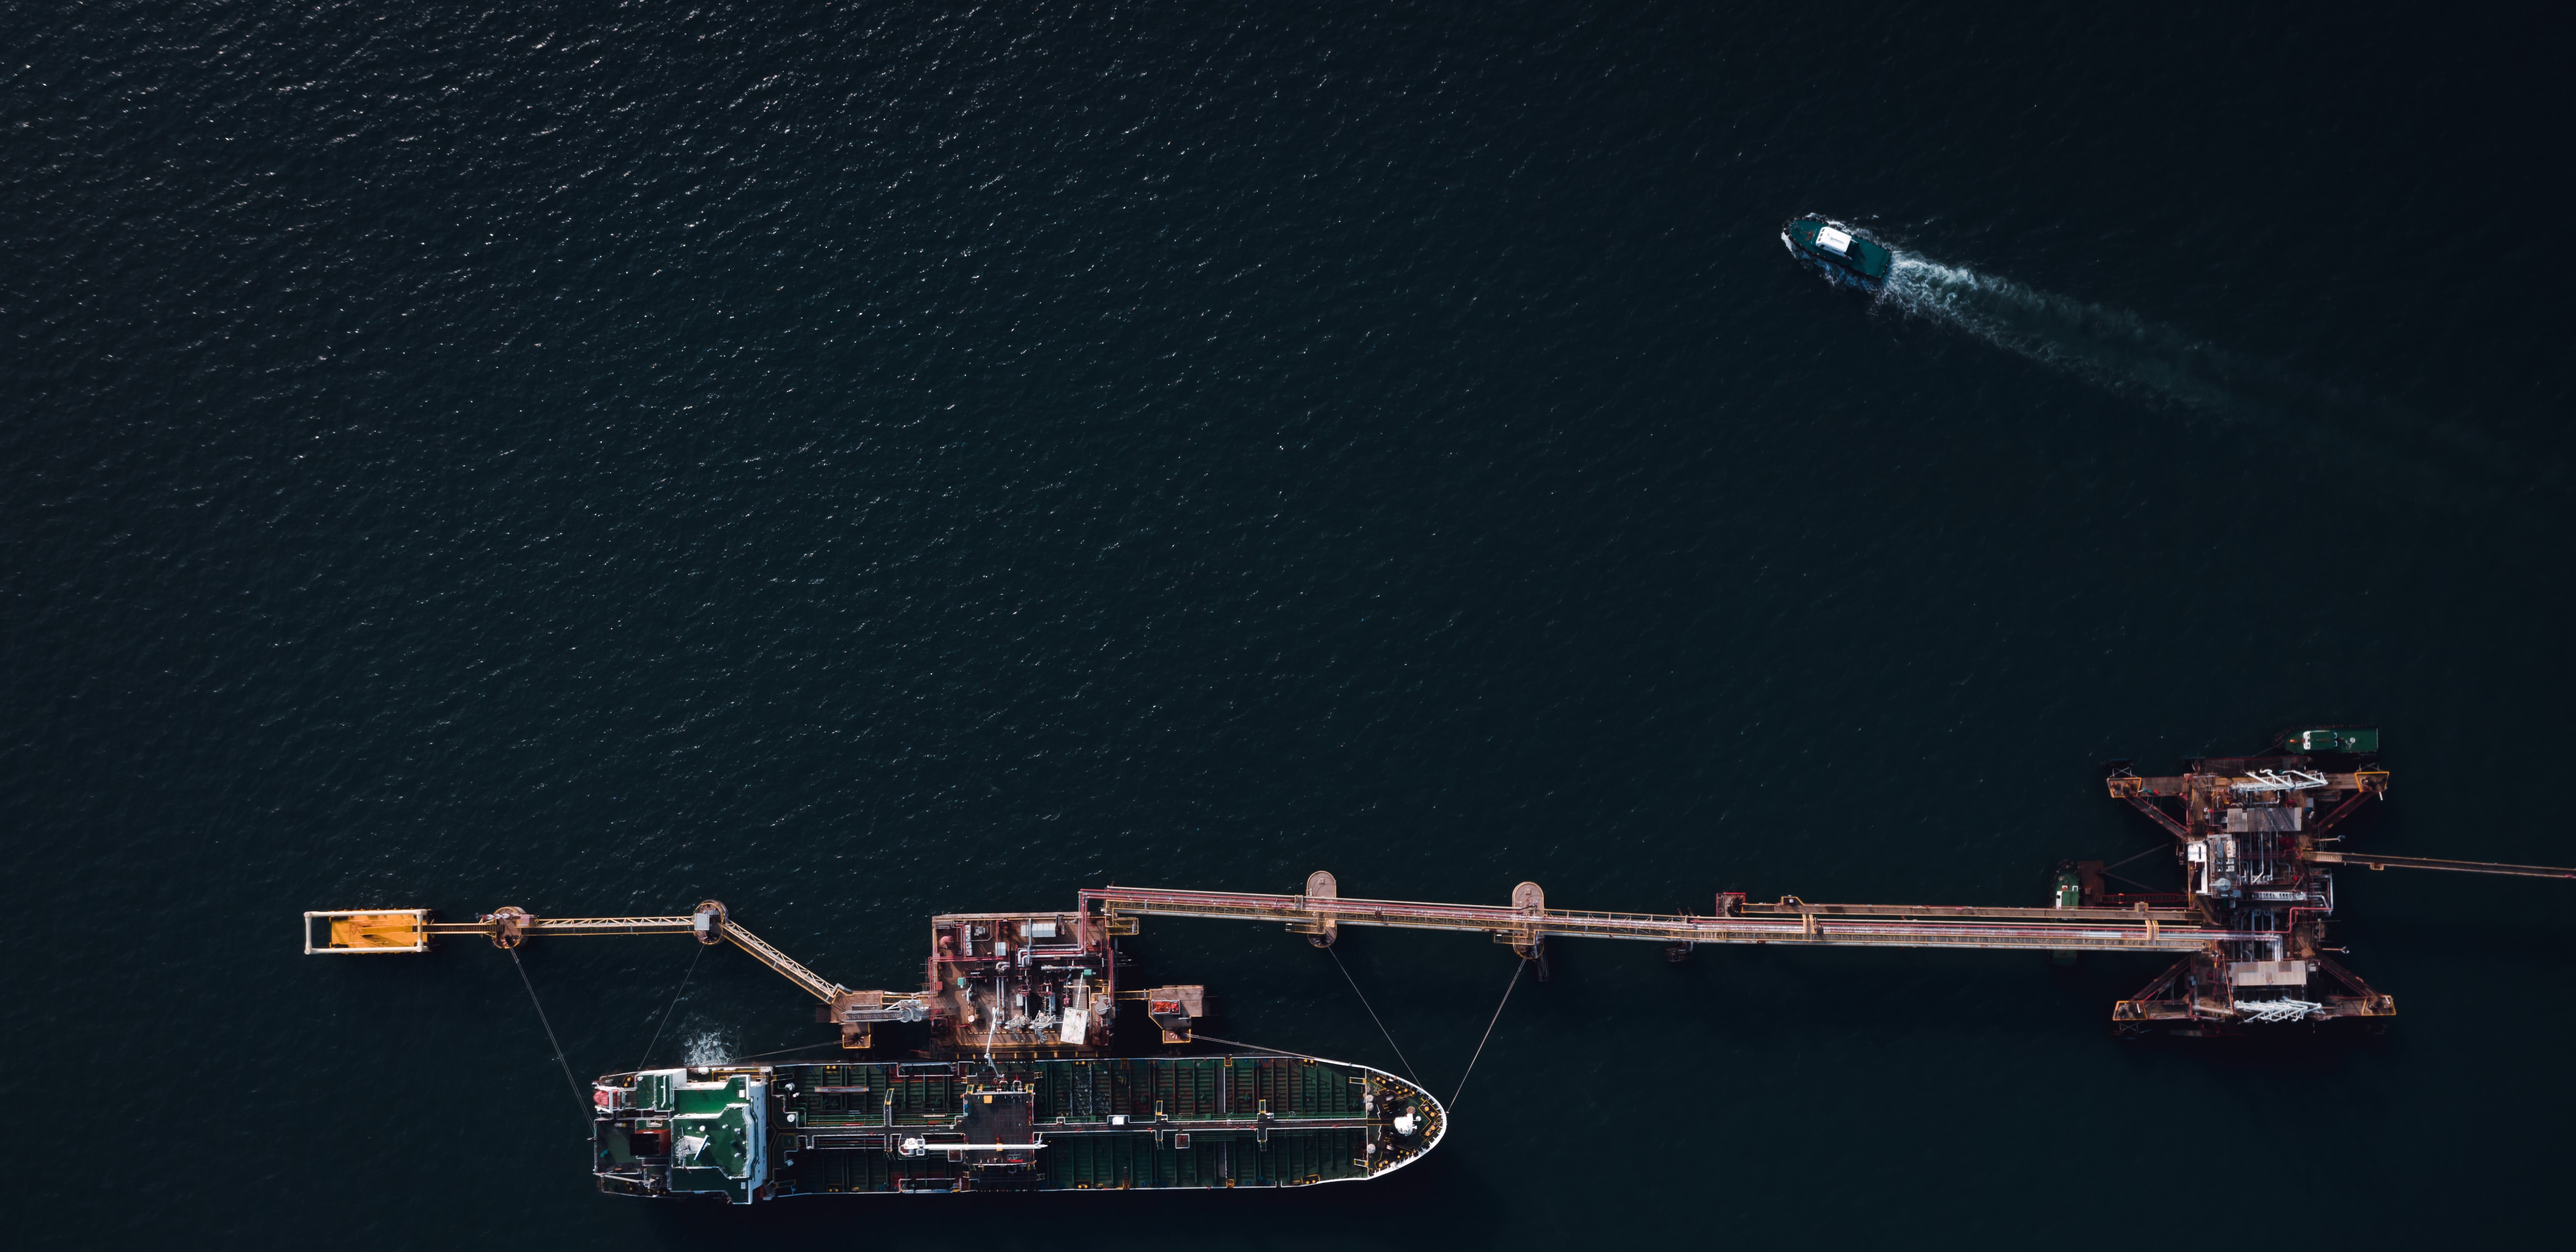
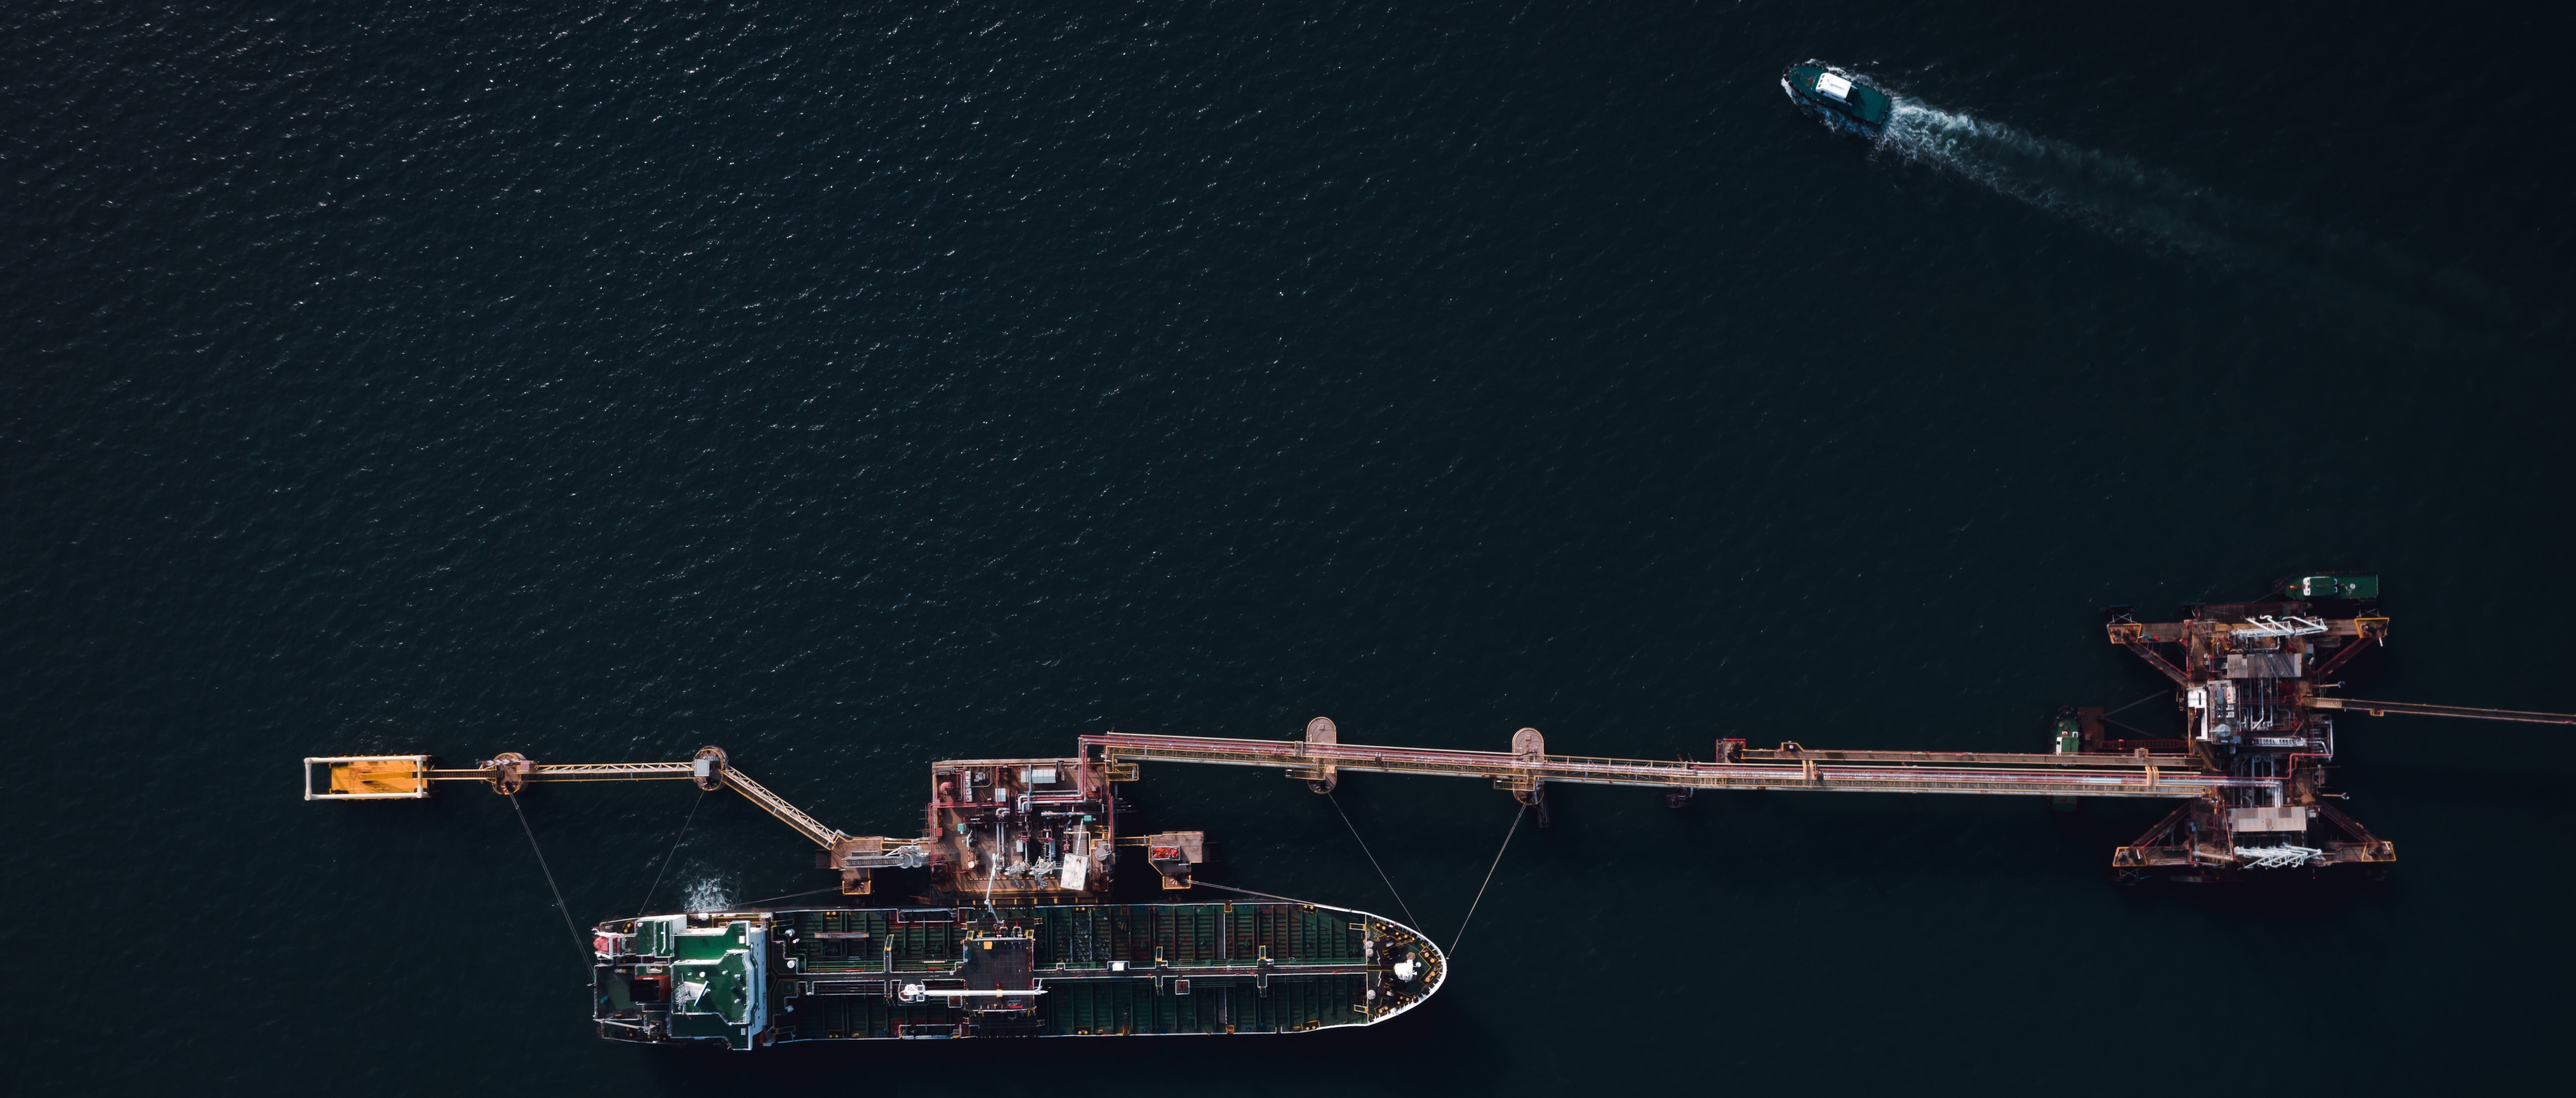
Fix spacing in footer and change operatins hero image

diff --git a/pdsl-ui/src/app/footer/footer.component.html b/pdsl-ui/src/app/footer/footer.component.html
@@ -4,11 +4,13 @@
             <div class="col-md-6 col-sm-12">
                 <div class="location">
                     <h6 class="pb-2">Location</h6>
-                    <address>
-                        20 Mandalay Street <br>
-                        Kingtom <br>
-                        Freetown, Sierra Leone
-                    </address>
+                   <div>
+                        <address>
+                            20 Mandalay Street <br>
+                            Kingtom <br>
+                            Freetown, Sierra Leone
+                        </address>
+                   </div>
                 </div>
                 <div class="contacts">
                     <address>

diff --git a/pdsl-ui/src/app/footer/footer.component.css b/pdsl-ui/src/app/footer/footer.component.css
@@ -17,15 +17,21 @@ footer h6 {
 }
 
 .contacts address {
-    padding-top: 0.5rem;
-    display: inline-block;
-    border-top: solid 0.1875rem #374649;
+    display: inline-block;   
+    padding-top: 0.5rem; 
 }
 
 .time {
     display: inline-block;
-    padding-bottom: 1rem;
+    padding-bottom: 0.5rem;
     border-bottom: solid 0.1875rem #374649;
+}
+
+.location address {
+    display: inline-block;    
+    padding-bottom: 0.5rem;
+    border-bottom: solid 0.1875rem #374649;
+    margin: 0;
 }
 
 .press-releases {
